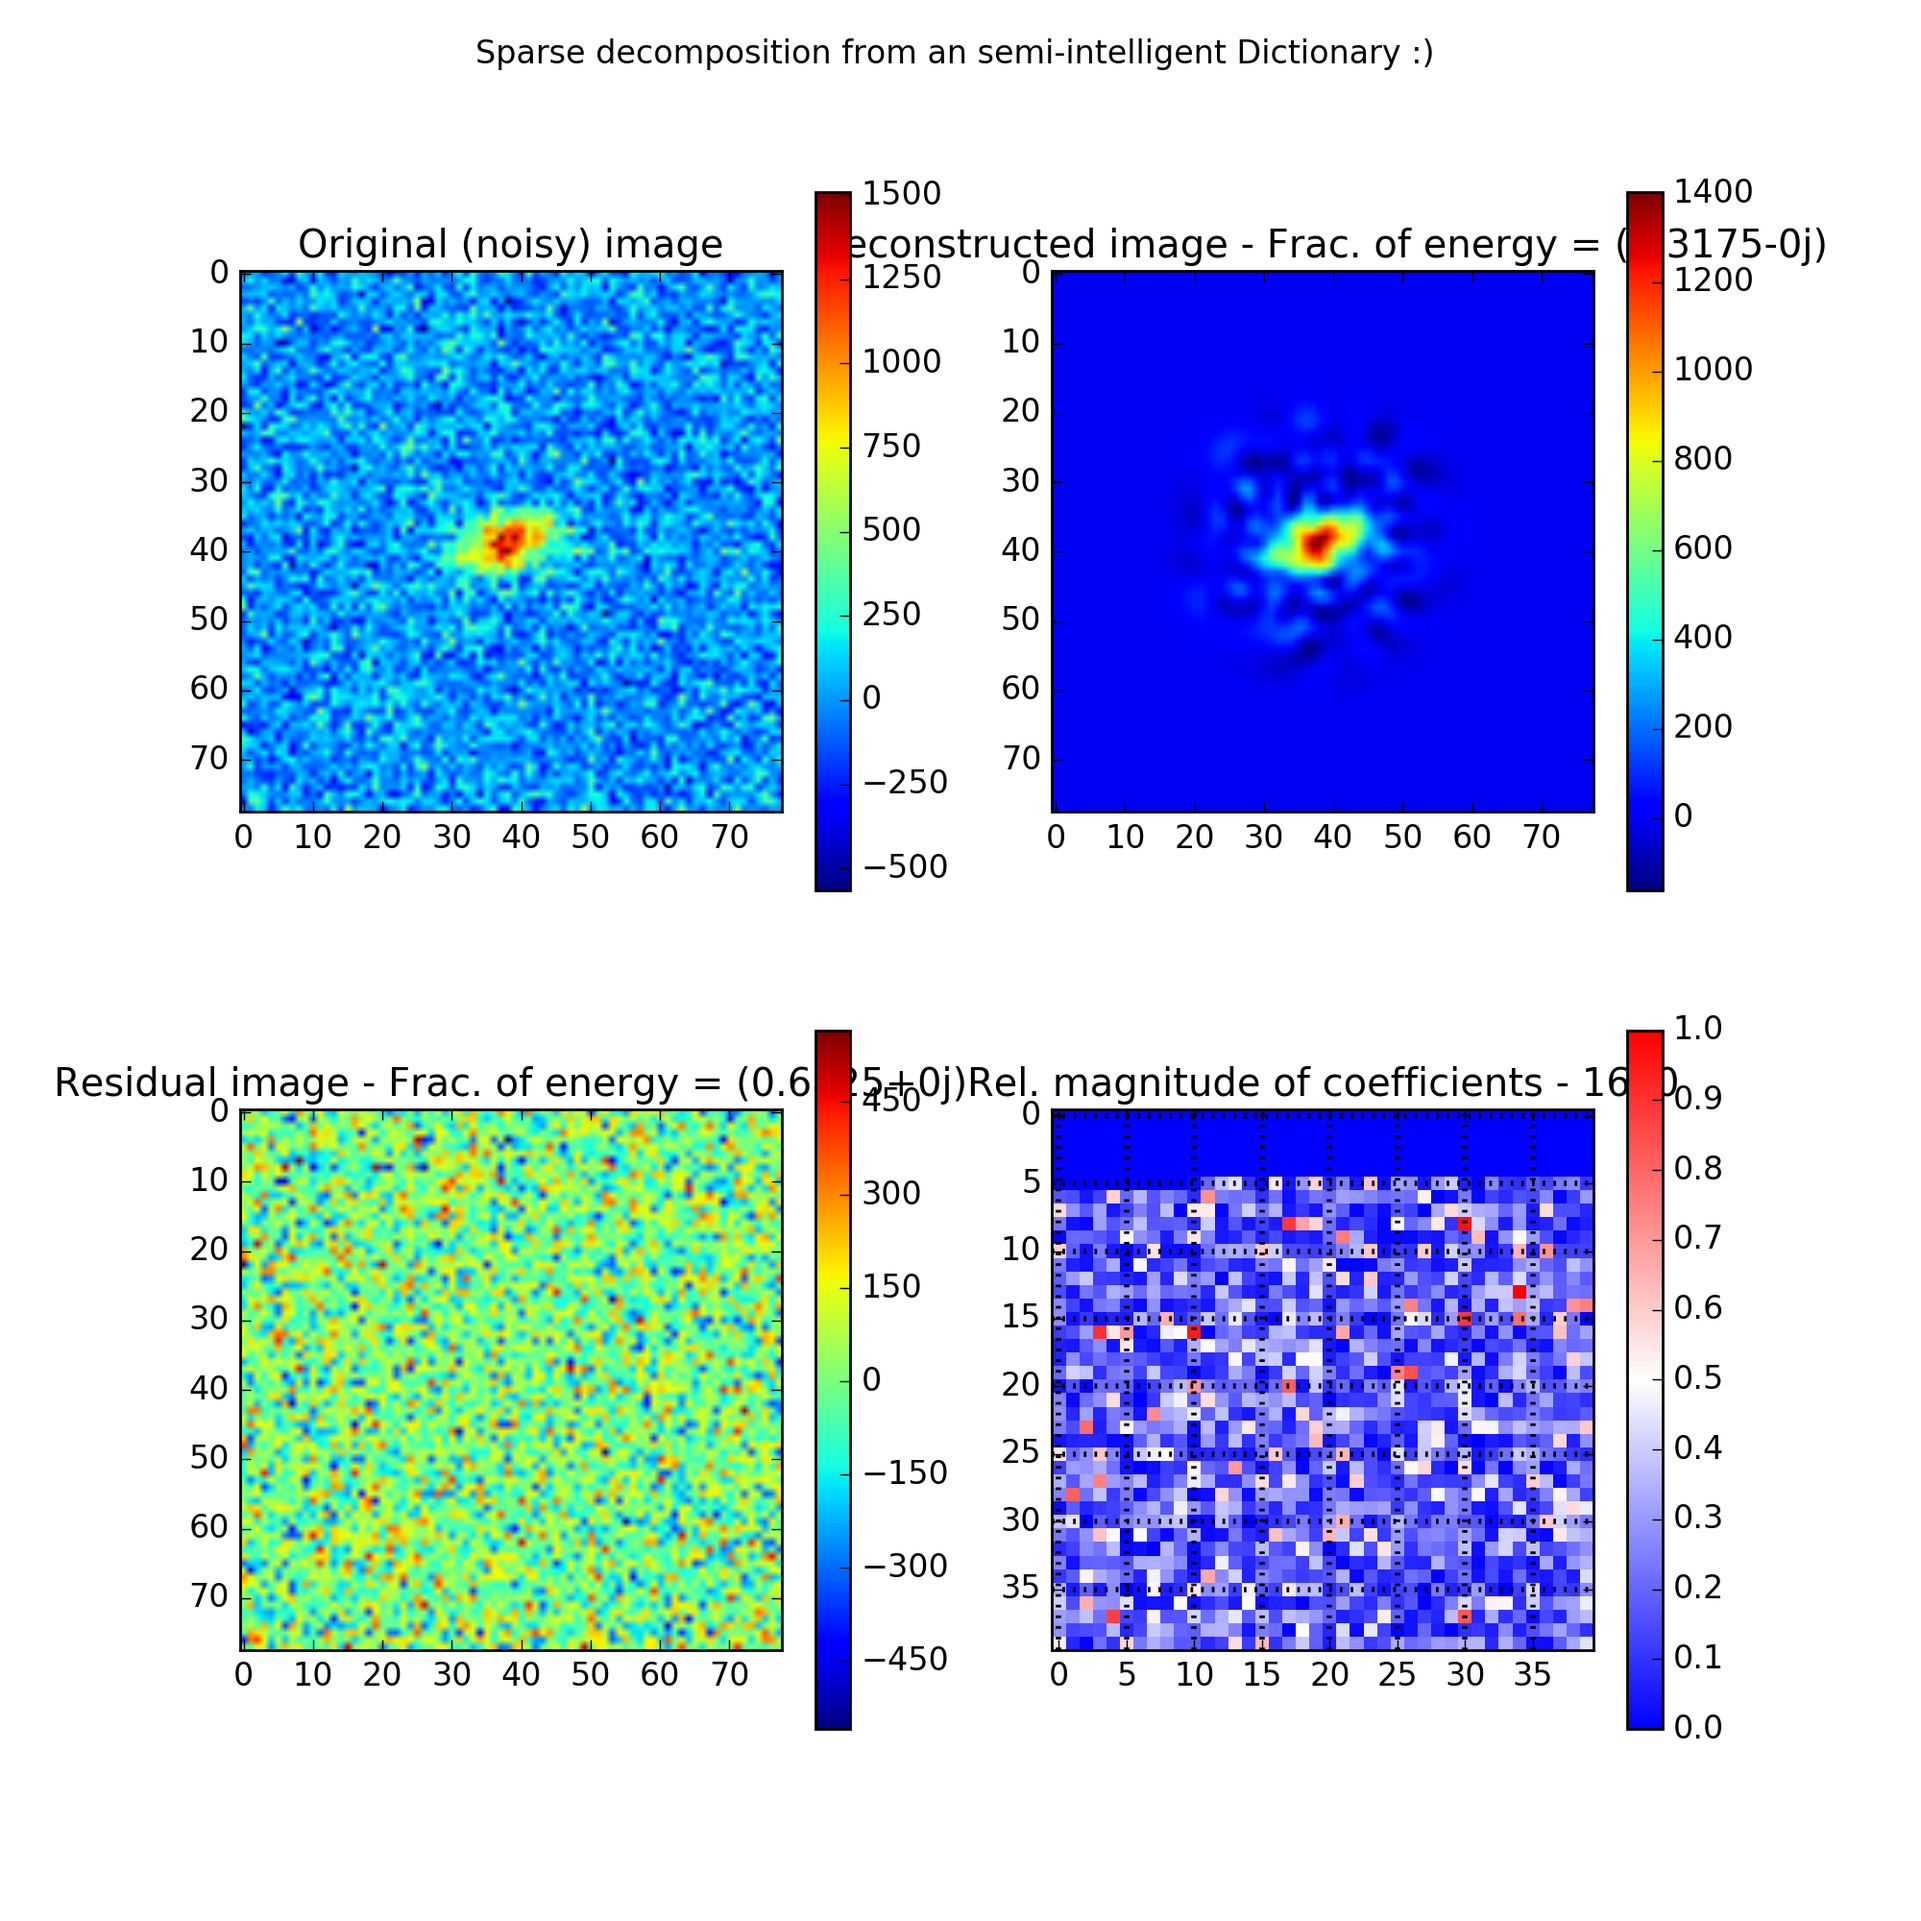
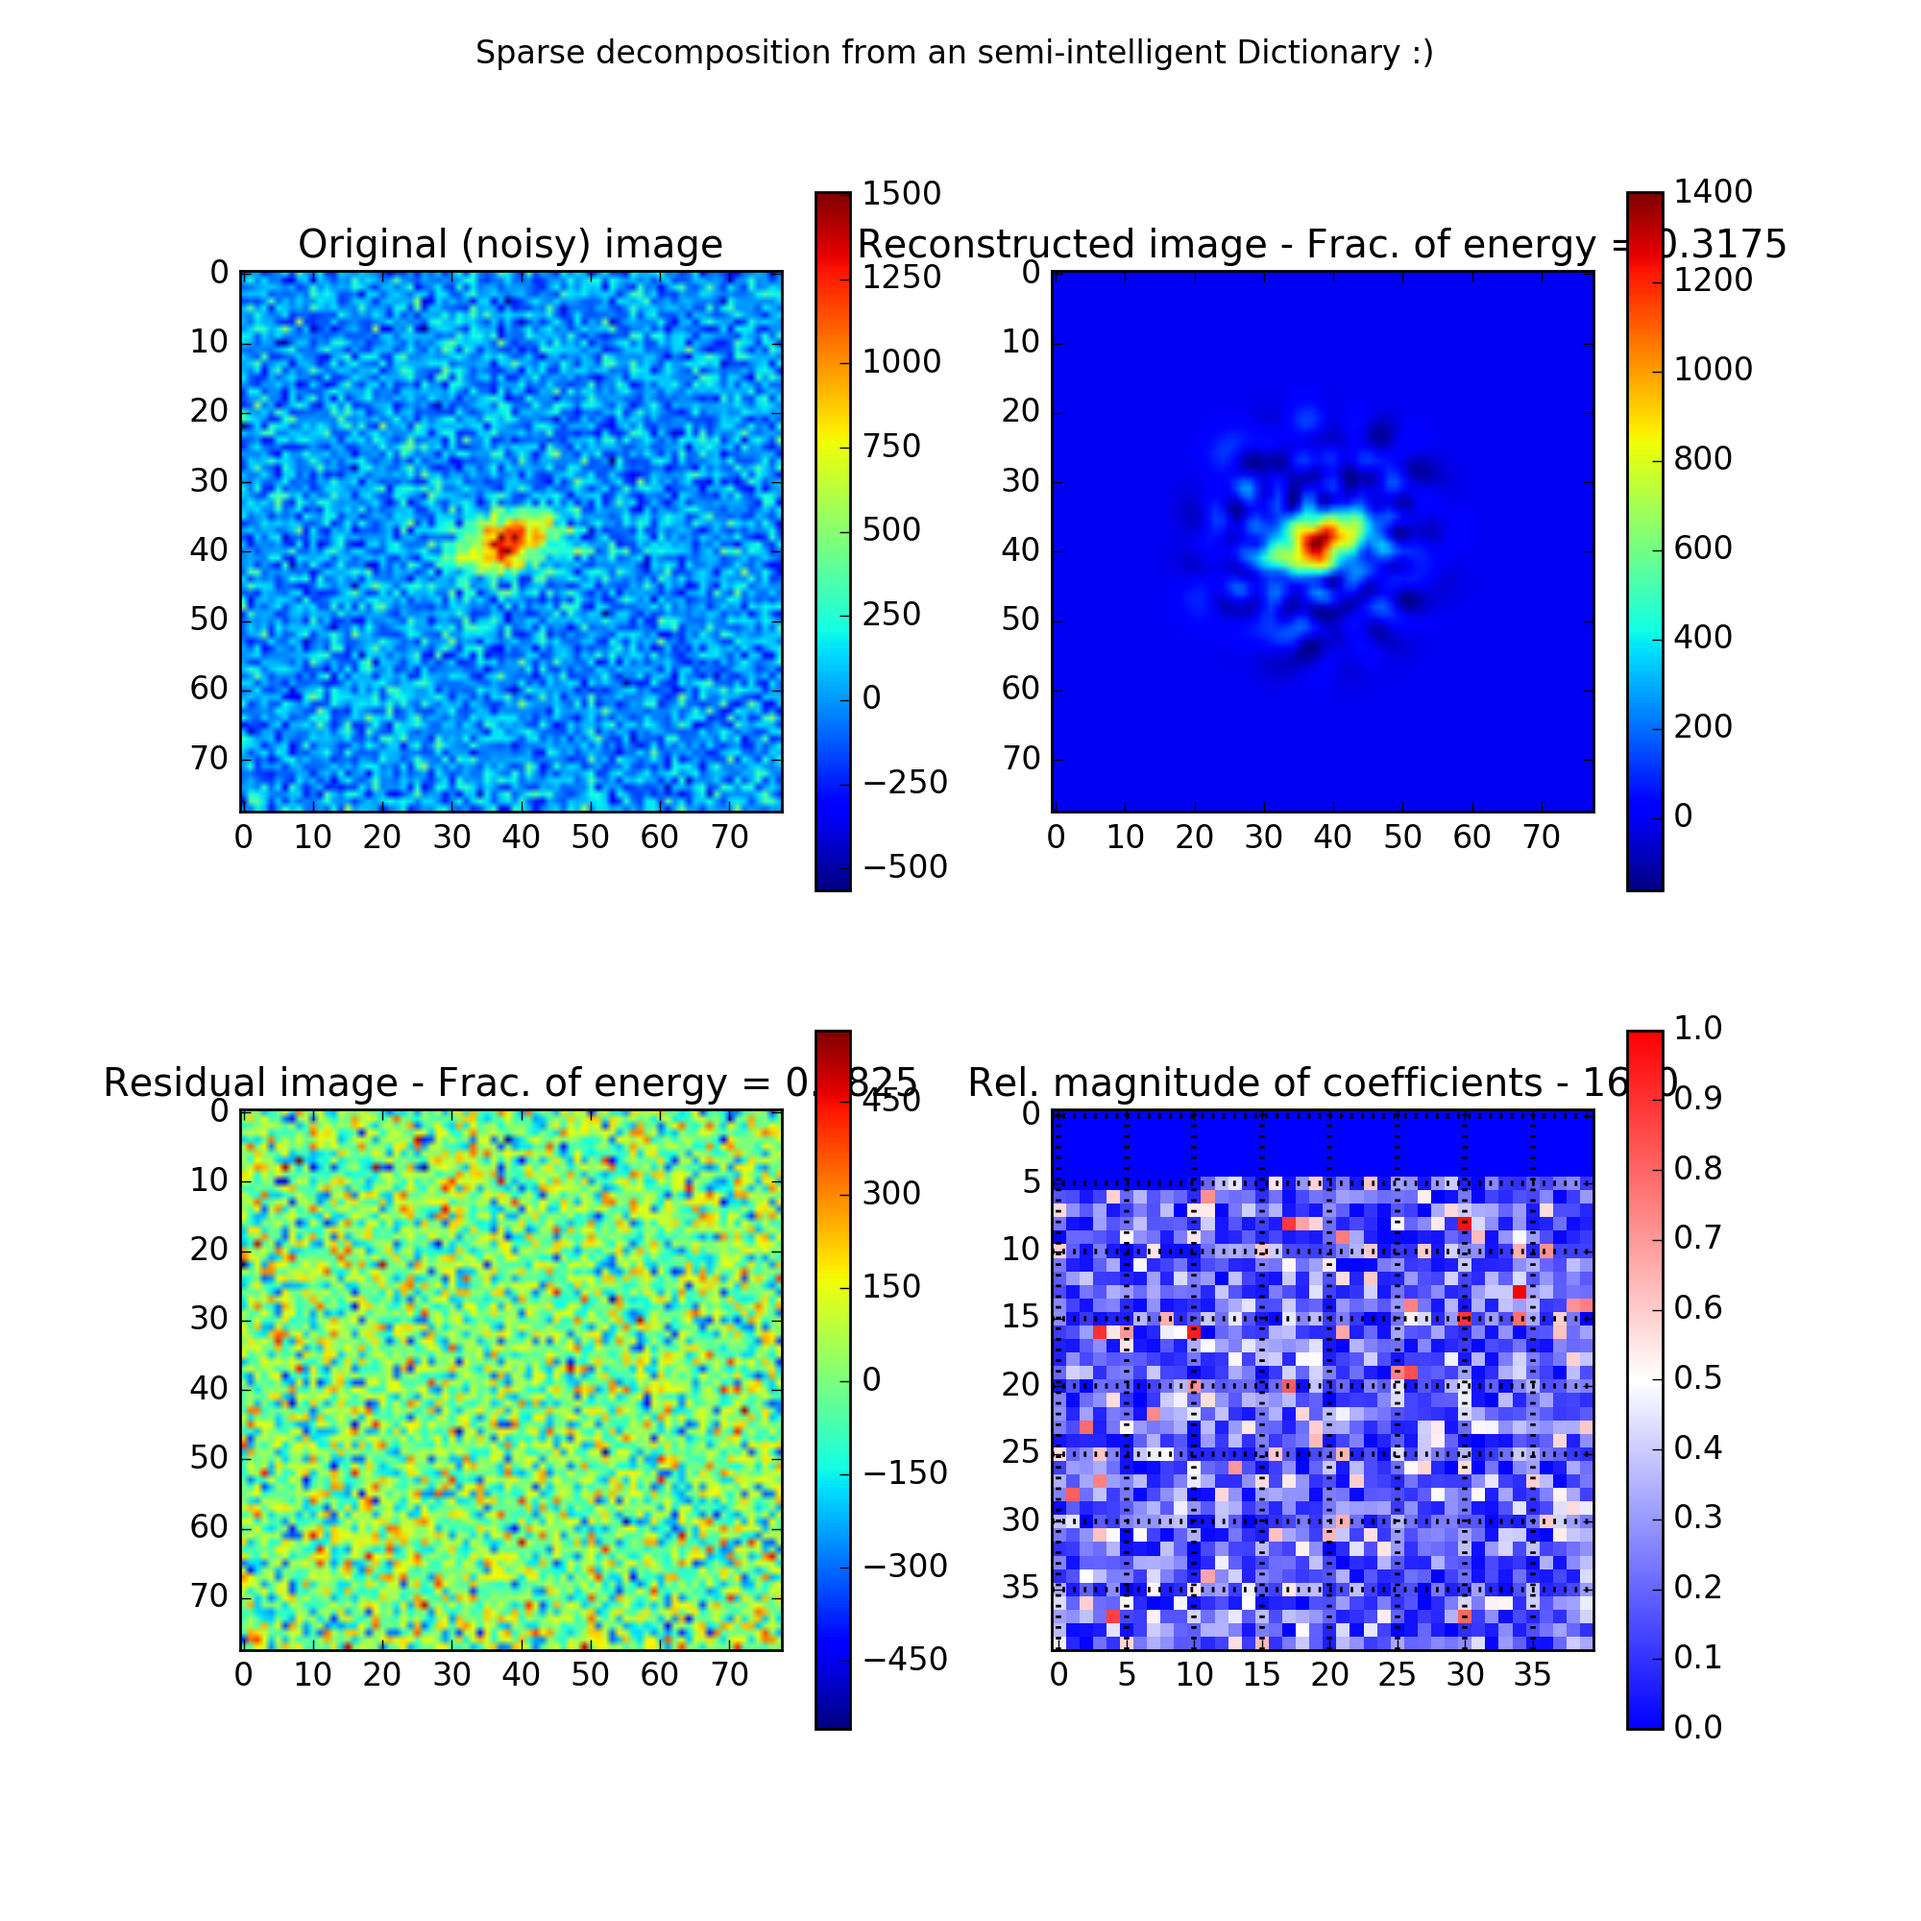
Angular - real / Correct normalization (?) / SVD still has high order coefs

diff --git a/codes/code/python_codes/trial_codes/polar_shapelet_decomp.py b/codes/code/python_codes/trial_codes/polar_shapelet_decomp.py
@@ -14,85 +14,85 @@ from scipy.integrate import quad,dblquad
 Pi = math.pi
 factorial = math.factorial
 
-def coeff_refregier(N, M, beta):
-    
-    """ Calculate coefficients for refregier
-    
-    @param N Energy quantum number
-    @param M Angular quantum number
-    @param beta Shapelet scale factor
+def coeff(N, M, beta):
+    """ 
+    Return normalization coefficients for refregier shapelets
 
-    @return B, C Normalization coefficients for shapelets
     """
-
-    B = (-1)**((N - np.abs(M))/2) / beta**(np.abs(M) + 1)
-    C = (float(factorial(int((N-np.abs(M))/2)))/(Pi*float(factorial((N+np.abs(M))/2))))**(.5)
-    return B, C
+    A = (-1)**((N - np.abs(M))/2) / beta**(np.abs(M) + 1)
+    B = (2*float(factorial(int((N-np.abs(M))/2)))/(float(factorial((N+np.abs(M))/2))))**(.5)
+    C = .5*np.sqrt(np.abs(M)/Pi)
+    return A,B, C
 
 def polar_shapelets_refregier(N, M, beta):
 
-    """ Return callable function for polar shapelets expression from refregier
-
-    @param N, M Energy and momentum quantum numbers respectively
-    @param beta Shapelet scale
-
-    @return Callable function for shapelets in polar coordinates 
     """
-    coeff_1, coeff_2 = coeff_refregier(N, M, beta)
+    Return callable function for normalized generalized Laguerre polynomials with separated 
+    exp(-1j*M*phi) to Cos (M>0) and Sin (M<0) and ordinary radial part for M == 0
+    """
+    coeff_1, coeff_2, coeff_3 = coeff(N, M, beta)
     gen_laguerre = special.genlaguerre(n=(N-np.abs(M))/2, alpha=np.abs(M))
-
-    laguer_N_M = lambda x, phi: coeff_1 * coeff_2 * x**(np.abs(M)) * gen_laguerre(x**2/beta**2) * np.exp(-x**2/2./beta**2) * np.exp(-1j*M*phi)
     
+    if (M > 0):
+        laguer_N_M = lambda x, phi: coeff_1 * coeff_2 * x**(np.abs(M)) * gen_laguerre(x**2/beta**2) * np.exp(-x**2/2./beta**2) * coeff_3 * np.cos(M*phi) 
+    elif (M < 0):
+        laguer_N_M = lambda x, phi: coeff_1 * coeff_2 * x**(np.abs(M)) * gen_laguerre(x**2/beta**2) * np.exp(-x**2/2./beta**2) * coeff_3 * np.sin(M*phi)
+    elif (M == 0):
+        laguer_N_M = lambda x, phi: coeff_1 * coeff_2 * x**(np.abs(M)) * gen_laguerre(x**2/beta**2) * np.exp(-x**2/2./beta**2)
     return laguer_N_M
 
 
+
+"""
+Trial function for testing
+BEGIN
+"""
 def polar_shapelets_real(N, M, beta):
 
-    coeff_1, coeff_2 = coeff_refregier(N, M, beta)
+    coeff_1, coeff_2, coeff_3 = coeff(N, M, beta)
     gen_laguerre = special.genlaguerre(n=(N-np.abs(M))/2, alpha=np.abs(M))
 
-    laguer_N_M = lambda x, phi: coeff_1 * coeff_2 * x**(np.abs(M)) * gen_laguerre(x**2/beta**2) * np.exp(-x**2/2./beta**2) * np.exp(-1j*M*phi).real
-    
+    laguer_N_M = lambda x: coeff_1 *coeff_2 * x**(np.abs(M)) * gen_laguerre(x**2/beta**2) * np.exp(-x**2/(2*beta**2))
     return laguer_N_M
 
 def polar_shapelets_imag(N, M, beta):
     
-    coeff_1, coeff_2 = coeff_refregier(N,M,beta)
+    coeff_1, coeff_2,coeff_3 = coeff(N,M,beta)
 
-    gen_laguerre = special.genlaguerre(n = (N-np.abs(M))/2, alpha = np.abs(M))
+    laguer_N_M = lambda x: 0
 
-    laguer_N_M = lambda x, phi: coeff_1 * coeff_2 * x**(np.abs(M)) * gen_laguerre(x**2/beta**2) * np.exp(-x**2/2./beta**2) * np.exp(-1j*M*phi).imag
-    
+    if (M>0):
+        laguer_N_M = lambda x: coeff_3 * np.cos(M*x)
+    elif (M<0):
+        laguer_N_M = lambda x: coeff_3 * np.sin(M*x)
+        
     return laguer_N_M
+
+"""
+Trial functions for testing
+END
+"""
 
 #From Berry et al. Eq (12)
 
 def coeff_berry(N,M,beta):
-    
-    """ Calculate coefficients for expression from berry
-
-    @param N,M Energy and momentum quantum numbers respectively
-    @param beta Shapelet scale
-
-    @return Normalization coefficient as in berry
-    """
-    return (2.*float(factorial((N-np.abs(M)/2)))/(Pi*beta**2*float(factorial((N+np.abs(M))/2))))**(0.5)
+    return (2.*float(factorial((N-np.abs(M)/2)))/(beta**2*float(factorial((N+np.abs(M))/2))))**(0.5)
 
 def polar_shapelets_berry(N,M, beta):
 
-    """ Callable function 
-
-    """
     coeff = coeff_berry(N,M,beta)
     gen_laguerre = special.genlaguerre(n = (N-np.abs(M))/2, alpha = np.abs(M))
 
-    laguer_N_M = lambda r, phi: coeff * (r**2/beta**2)**(np.abs(M)/2) * np.exp(-(r**2/beta**2)/2.) * gen_laguerre(r**2/beta**2) * np.exp(-1j*M*phi)
+    laguer_N_M = lambda r, phi: coeff * (r/beta)**(np.abs(M)) * np.exp(-(r**2/beta**2)/2.) * gen_laguerre(r**2/beta**2) * np.exp(-1j*M*phi)
     
     return laguer_N_M
 
 
 def plot_shapelets(N,M, beta):
-    
+
+    """
+    Make a 2D grid for visualizing the shapelets
+    """
     X = np.linspace(-5, 5, 100)
     Y = np.linspace(-5, 5, 100)
     Xv, Yv = meshgrid(X,Y)
@@ -102,43 +102,27 @@ def plot_shapelets(N,M, beta):
         for j in xrange(np.shape(Xv)[1]):
             phi[i,j] = math.atan2(Yv[i,j], Xv[i,j])
 
-    func = polar_shapelets_berry(N, M, beta)(R, phi).real
+    func = polar_shapelets_refregier(N, M, beta)(R, phi)
     im = imshow(func, cmap=cm.bwr)
     plt.show()
-
-def check_orthonormality():
-    
-    X = np.linspace(-5, 5, 100)
-    Y = np.linspace(-5, 5, 100)
-    Xv, Yv = meshgrid(X,Y)
-    R = np.sqrt(Xv**2 +  Yv**2)
-    phi = np.zeros_like(R)
-    for i in xrange(np.shape(Xv)[0]):
-        for j in xrange(np.shape(Xv)[1]):
-            phi[i,j] = math.atan2(Yv[i,j], Xv[i,j])
-    
-    print(\
-            np.abs(\
-            np.dot(\
-            polar_shapelets_refregier(2,2,1)(R,phi).flatten(),\
-            polar_shapelets_refregier(2,2,1)(R,phi).flatten())), \
-            np.abs(\
-            np.dot(\
-            polar_shapelets_berry(2,2,1)(R,phi).flatten(), \
-            polar_shapelets_berry(2,2,1)(R,phi).flatten()) ))
 
 if __name__ == "__main__":
     
   
-    #plot_shapelets(0,0, 1)
-    n =1; m = 1; beta = 1.;
+    check = 0
+    plot_shapelets(4,2, 1)
     
-    for n in xrange(10):
-        for m in xrange(-n,n+1,2):
-            print('berry')
-            print(dblquad(lambda r,phi: r*polar_shapelets_berry(n,m,beta)(r,phi).conjugate()*polar_shapelets_berry(n,m,beta)(r,phi), 0, np.inf, lambda r: 0, lambda r: 2*Pi))
-            print('refregier')
-            print(dblquad(lambda r,phi: r*polar_shapelets_refregier(n,m,beta)(r,phi).conjugate()*polar_shapelets_refregier(n,m,beta)(r,phi), 0, np.inf, lambda r: 0, lambda r: 2*Pi))    
-    #check_orthonormality() 
+
+    if (check == 1):
+        for n in xrange(10):
+            for m in xrange(-n,n+1,2):
+                print(n,m)
+                #print('berry')
+                #print(dblquad(lambda r,phi: r*polar_shapelets_berry(n,m,beta)(r,phi).conjugate()*polar_shapelets_berry(n,m,beta)(r,phi), 0, np.inf, lambda r: 0, lambda r: 2*Pi))
+                print('refregier')
+                print('radial_part')
+                print(quad(lambda r: r*polar_shapelets_real(n,m,beta)(r)**2, 0, np.inf))
+                print('angular_part')
+                print(quad(lambda phi: polar_shapelets_imag(n,m,beta)(phi)**2,0, 2*Pi))
     #print(polar_shapelets(1,1,0,Pi/2, 1.))     
    

diff --git a/codes/code/python_codes/shapelet_dicts.py b/codes/code/python_codes/shapelet_dicts.py
@@ -10,7 +10,7 @@ import pyfits
 import galsim
 import math
 
-#import pdb; pdb.set_trace()
+import pdb; pdb.set_trace()
 
 #------------------
 # berry == Berry et al. MNRAS 2004
@@ -328,12 +328,13 @@ def shapelet_decomposition(N1=20,N2=20, basis = 'XY', solver = 'sparse', noise =
     cubr_real_noiseless = pyfits.getdata('../../data/cube_real_noiseless.fits')
     background = 1.e6*0.16**2
     img = galsim.Image(78,78) # cube_real has 100, 78x78 images
+    
     if (basis == 'XY') or (basis == 'Elliptical'):
         D = np.zeros((78*78,4*N1*N2)) # alloc for Dictionary
         base_coefs = np.zeros((N1,N2))
     elif (basis == 'Polar'):
-        D = np.zeros((78*78,4*N1*N2), dtype=complex)
-        base_coefs = np.zeros((N1,N2), dtype=complex)
+        D = np.zeros((78*78,4*N1*N2))#, dtype=complex)
+        base_coefs = np.zeros((N1,N2))#, dtype=complex)
 
     X = np.linspace(0,77,78)  
     Y = np.linspace(0,77,78)
@@ -344,7 +345,7 @@ def shapelet_decomposition(N1=20,N2=20, basis = 'XY', solver = 'sparse', noise =
         shape = img.FindAdaptiveMom()
         x0,y0 = shape.moments_centroid.x, shape.moments_centroid.y ## possible swap b/w x,y
         sigma = shape.moments_sigma
-       
+        n_max = 20
 
         #Make a meshgrid for the polar shapelets
 
@@ -357,7 +358,6 @@ def shapelet_decomposition(N1=20,N2=20, basis = 'XY', solver = 'sparse', noise =
                 Phi[i,j] = math.atan2(Yv[i,j], Xv[i,j])
 
         signal = cube_real[img_idx].flatten()
-
         if (noise == 1):
             import random
             random.seed()
@@ -375,7 +375,7 @@ def shapelet_decomposition(N1=20,N2=20, basis = 'XY', solver = 'sparse', noise =
             #base_coefs_im = np.zeros_like(base_coefs)
             for n in xrange(N1):
                 for m in xrange(-n,n+1,2):
-                    if (n <= (78/sigma - 1)): # n_max ~ theta_max (image size) / theta_min (pixel or kernel smoothing size) -1 
+                    if (n <= n_max): # n_max ~ theta_max (image size) / theta_min (pixel or kernel smoothing size) -1 
                         if (polar_basis == 'refregier'):
                             arr_res = \
                                     p_shapelet.polar_shapelets_refregier(n,m,sigma)(R,Phi).flatten() 
@@ -402,14 +402,14 @@ def shapelet_decomposition(N1=20,N2=20, basis = 'XY', solver = 'sparse', noise =
                         else: 
                             #base_coefs_r[n,m] = coef_r/np.sqrt(arr_norm2)
                             #base_coefs_im[n,m] = coef_im/np.sqrt(arr_norm_im2)
-                            base_coefs[n,m] = (coef_res/np.sqrt(arr_norm2_res)).real
+                            base_coefs[n,m] = coef_res/np.sqrt(arr_norm2_res)
                             shapelet_reconst = shapelet_reconst \
-                                    + (coef_res*arr_res/arr_norm2_res).real
+                                    + coef_res*arr_res/arr_norm2_res
                     else: break
         elif(basis == 'XY'):
              for k in xrange(N1*N2):
                 m,n = k/N1, k%N1 
-                if (m+n <= (78/sigma - 1)): 
+                if (m+n <= n_max): 
                     arr = shapelet2d(m,n,x0=x0,y0=y0,sx=sigma,sy=sigma)(X,Y).flatten()
                     #arr2 = shapelet2d(m,n,x0=x0,y0=y0,sx=0.5*sigma,sy=0.5*sigma)(X,Y).flatten()
                     #arr3 = shapelet2d(m,n,x0=x0,y0=y0,sx=1.5*sigma,sy=2.*sigma)(X,Y).flatten()
@@ -482,7 +482,7 @@ def shapelet_decomposition(N1=20,N2=20, basis = 'XY', solver = 'sparse', noise =
             
             coeffs_lasso, reconstruction_lasso, residual_lasso, \
             residual_energy_fraction_lasso, recovered_energy_fraction_lasso, \
-            n_nonzero_coefs_lasso = solver_lasso_reg(D, signal, 0)
+            n_nonzero_coefs_lasso = solver_lasso_reg(D, signal, 0.0000001)
             
             plot_solution(N1,N2,cube_real, img_idx, reconstruction_lasso.real, residual_lasso.real, \
                     coeffs_lasso, recovered_energy_fraction_lasso, residual_energy_fraction_lasso, \
